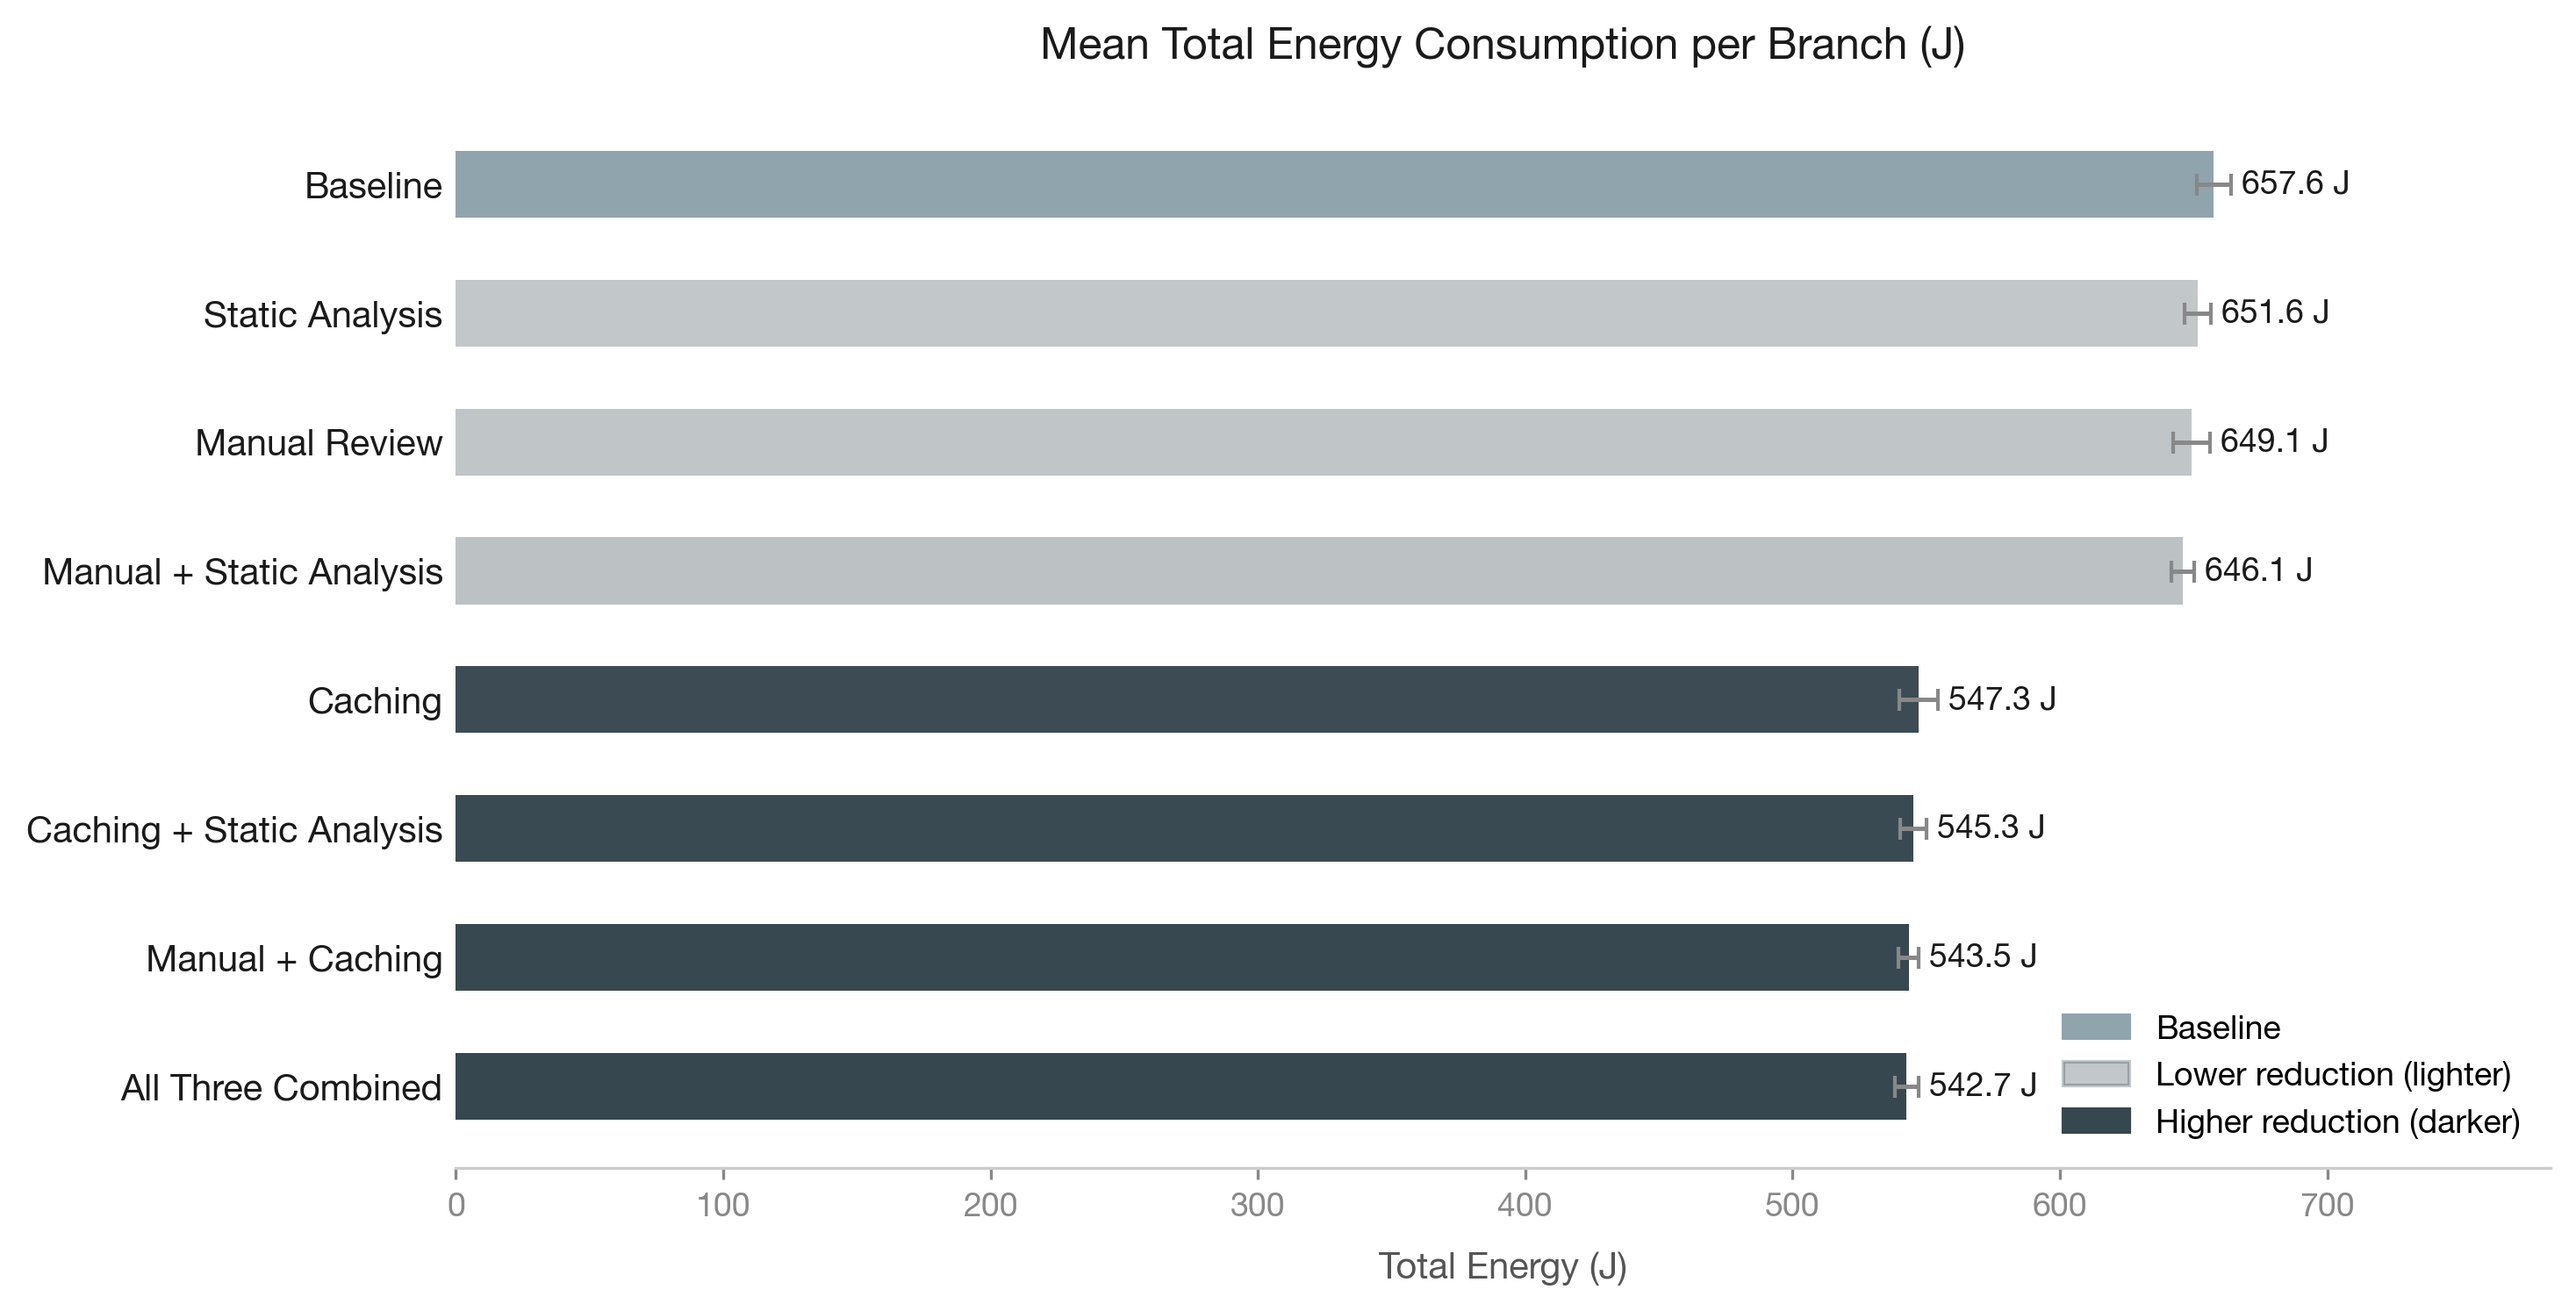
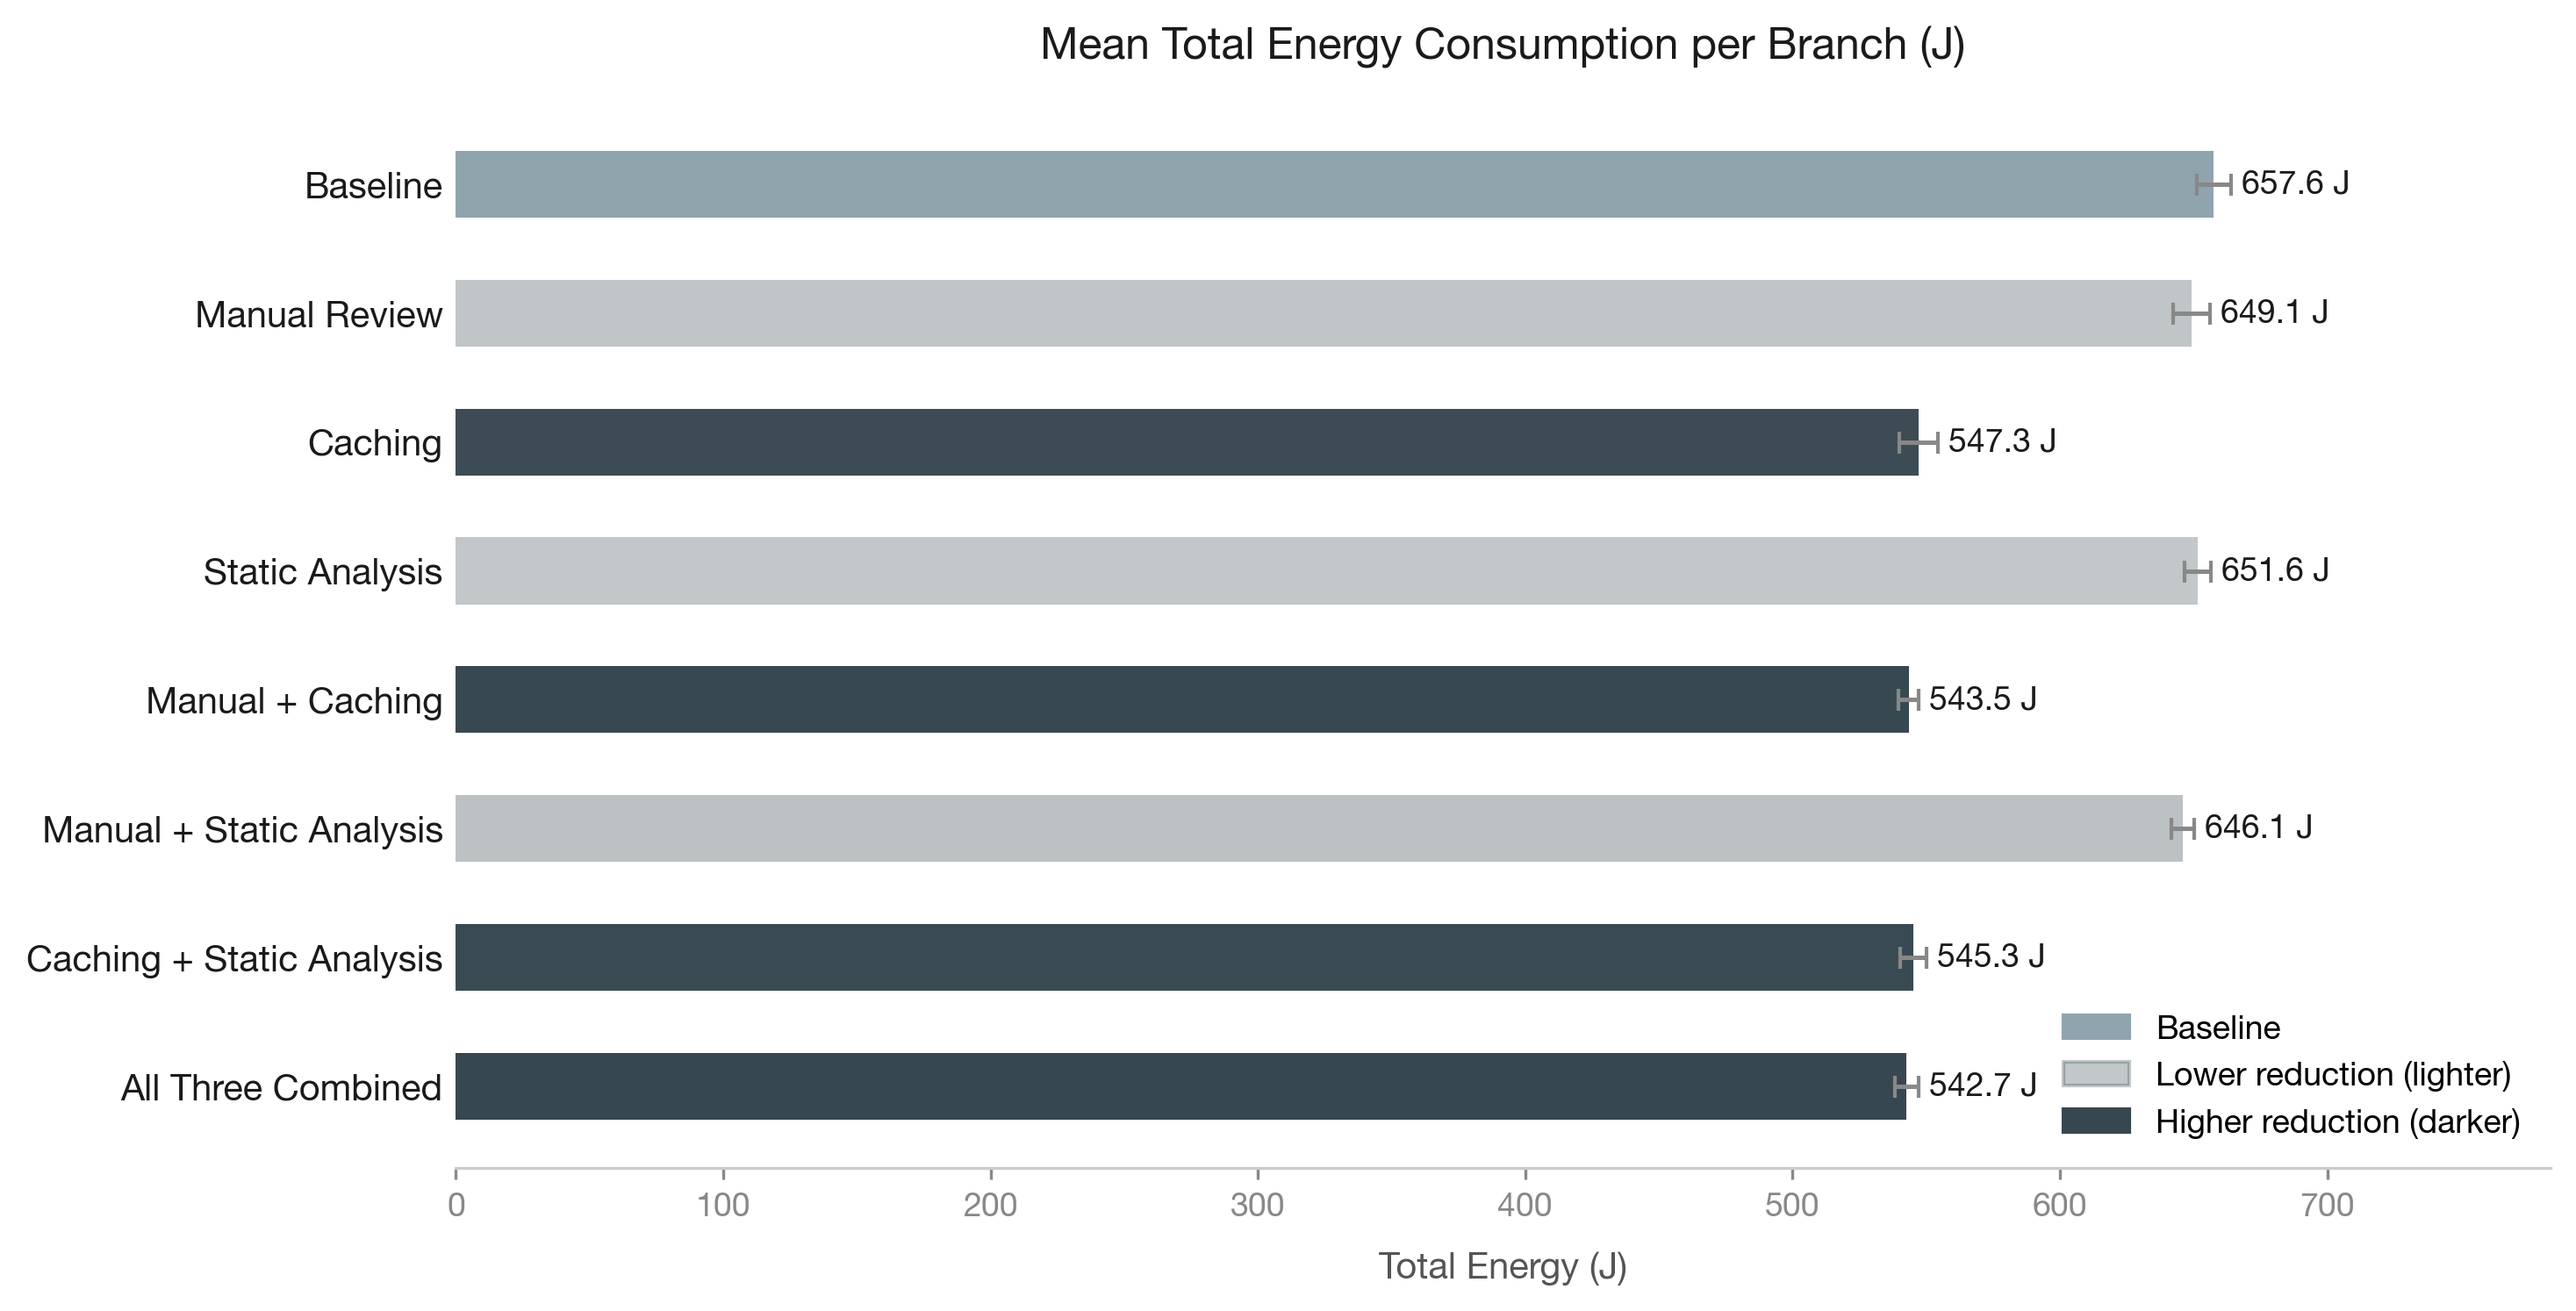
changed the order of the bars

diff --git a/backtrader/experiment/results/visualizations.py b/backtrader/experiment/results/visualizations.py
@@ -11,10 +11,11 @@ matplotlib.rcParams["font.sans-serif"] = ["Helvetica Neue", "Helvetica", "Arial"
 RESULTS_DIR = Path(__file__).resolve().parent
 CSV_PATH    = RESULTS_DIR / "comparison.csv"
 
-BRAND  = "#37474F"   # dark blue-grey
-GREY   = "#AAAAAA"
-ORANGE = "#D95F02"   # warm orange for expected marker
-BAR_H  = 0.52
+BRAND        = "#37474F"   # dark blue-grey
+GREY         = "#AAAAAA"
+ORANGE       = "#D95F02"   # warm orange for expected marker
+BASELINE_CLR = "#90A4AE"   # distinct cool blue-grey for baseline
+BAR_H        = 0.52
 
 BRANCH_LABELS = {
     "baseline":      "Baseline",
@@ -45,18 +46,14 @@ def _sig_label(branch):
     word = "not significant" if _is_ns(branch) else "significant"
     return f"{_fmt_p(p)}, {word}"
 
-
-# ---------------------------------------------------------------------------
 # Chart 1 — Individual branch energy reduction
-# ---------------------------------------------------------------------------
 
-ind_rows = ["changes_1", "changes_2", "changes_3"]
+ind_rows = ["changes_3", "changes_2", "changes_1"]
 
 ind = df.loc[ind_rows, ["pct_reduction_total"]].copy()
 ind["label"] = [BRANCH_LABELS[b] for b in ind.index]
-ind["sig"]   = [_sig_label(b)   for b in ind.index]
-ind["is_ns"] = [_is_ns(b)       for b in ind.index]
-ind = ind.sort_values("pct_reduction_total", ascending=True)
+ind["sig"]   = [_sig_label(b) for b in ind.index]
+ind["is_ns"] = [_is_ns(b)     for b in ind.index]
 
 max_ind_pct = ind["pct_reduction_total"].max()
 
@@ -65,8 +62,8 @@ fig1, ax1 = plt.subplots(figsize=(9, 3.8))
 for i, (branch, row) in enumerate(ind.iterrows()):
     is_ns = row["is_ns"]
     color = GREY if is_ns else BRAND
-    lw    = 1.4  if is_ns else 0
-    ls    = "--"  if is_ns else "-"
+    lw    = 1.4 if is_ns else 0
+    ls    = "--" if is_ns else "-"
 
     ax1.barh(
         row["label"], row["pct_reduction_total"],
@@ -110,12 +107,9 @@ out1 = RESULTS_DIR / "chart_individual_branches.png"
 fig1.savefig(out1, dpi=300, bbox_inches="tight", facecolor="white")
 print(f"Saved → {out1}")
 
-
-# ---------------------------------------------------------------------------
 # Chart 2 — Combination results with additivity comparison
-# ---------------------------------------------------------------------------
 
-comb_rows = ["changes_1_2", "changes_1_3", "changes_2_3", "changes_1_2_3"]
+comb_rows = ["changes_1_2_3", "changes_2_3", "changes_1_3", "changes_1_2"]
 
 EFFECT_COLORS = {
     "additive":      "#37474F",
@@ -130,7 +124,6 @@ EFFECT_LABELS = {
 
 comb = df.loc[comb_rows, ["pct_reduction_total", "h3_expected_pct", "h3_effect"]].copy()
 comb["label"] = [BRANCH_LABELS[b] for b in comb.index]
-comb = comb.sort_values("pct_reduction_total", ascending=True)
 
 max_comb_pct = max(comb["pct_reduction_total"].max(), comb["h3_expected_pct"].max())
 
@@ -196,23 +189,17 @@ out2 = RESULTS_DIR / "chart_combinations.png"
 fig2.savefig(out2, dpi=300, bbox_inches="tight", facecolor="white")
 print(f"Saved → {out2}")
 
-
-# ---------------------------------------------------------------------------
 # Chart 3 — All branches absolute energy with uncertainty
-# ---------------------------------------------------------------------------
 
-all_rows = ["baseline", "changes_1", "changes_2", "changes_3",
-            "changes_1_2", "changes_1_3", "changes_2_3", "changes_1_2_3"]
+all_rows = ["changes_1_2_3", "changes_2_3", "changes_1_3", "changes_1_2",
+            "changes_3", "changes_2", "changes_1", "baseline"]
 
 abso = df.loc[all_rows, ["mean_total_energy_J", "std_total_energy_J"]].copy()
 abso["label"]         = [BRANCH_LABELS[b] for b in abso.index]
 abso["pct_reduction"] = df.loc[all_rows, "pct_reduction_total"].fillna(0.0)
-# sort ascending so highest energy (baseline) ends up at top of barh
-abso = abso.sort_values("mean_total_energy_J", ascending=True)
 
 max_abso_J = (abso["mean_total_energy_J"] + abso["std_total_energy_J"]).max()
 
-BASELINE_CLR = "#90A4AE"   # distinct cool blue-grey for baseline
 ALPHA_MIN, ALPHA_MAX = 0.30, 1.00
 
 non_bl = abso[abso.index != "baseline"]["pct_reduction"]
